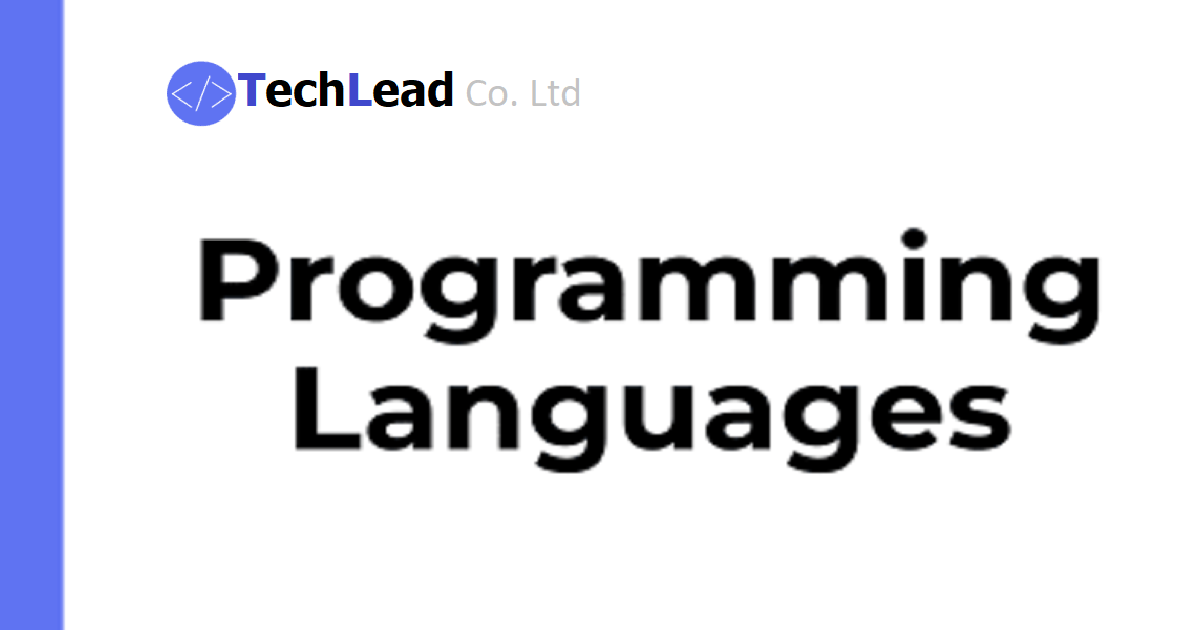
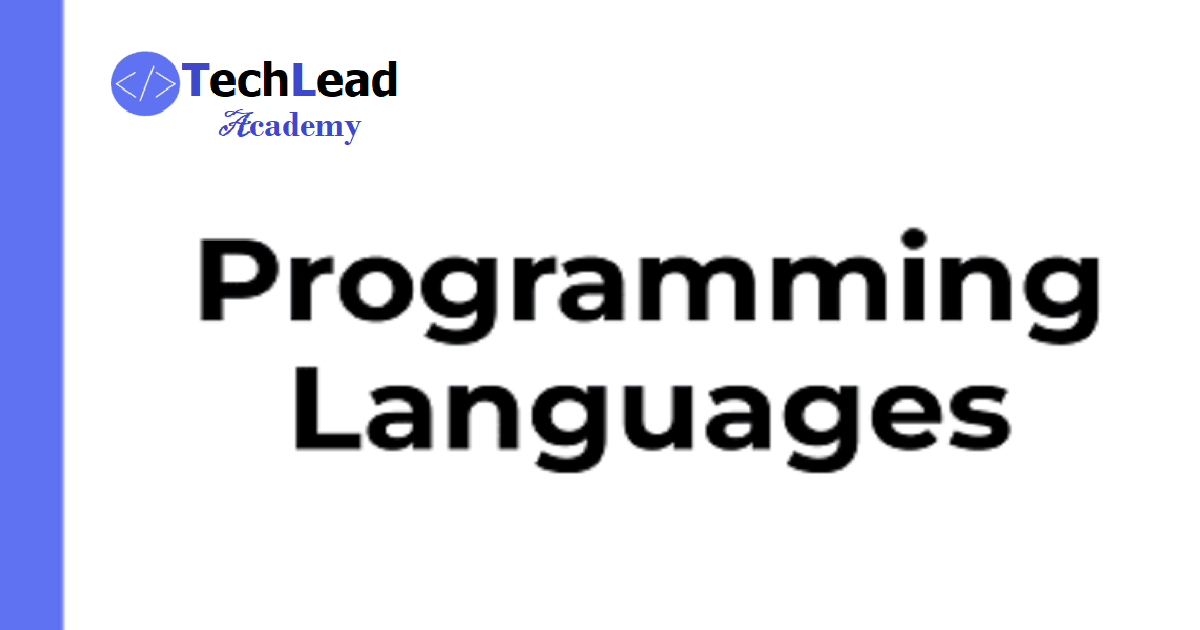
updates and adding the JS file

Changed region(s): [[0.0925, 0.0603, 0.4933, 0.2413]]

diff --git a/protocol/protocols.html b/protocol/protocols.html
@@ -22,6 +22,7 @@
 integrity="sha384-rbsA2VBKQhggwzxH7pPCaAqO46MgnOM80zW1RWuH61DGLwZJEdK2Kadq2F9CUG65" crossorigin="anonymous">
 <!-- Bootstrap icon cdn  -->
 <link rel="stylesheet" href="https://cdn.jsdelivr.net/npm/bootstrap-icons@1.10.2/font/bootstrap-icons.css">
+<meta name="color-scheme" content="light dark">
 
     <link rel="icon" href="../assets/imgs/company_logo.jpeg" />
     
@@ -36,16 +37,20 @@ integrity="sha384-rbsA2VBKQhggwzxH7pPCaAqO46MgnOM80zW1RWuH61DGLwZJEdK2Kadq2F9CUG
       href="style.css"
       data-n-g=""
     />
+
+    <style>
+  
+    </style>
   </head>
-  <body>
+  <body class="dark-mode">
      <!-- <header> -->
       <nav class="navbar navbar-dark bg-dark fixed-top">
         <div class="container-fluid">
           <div class="flex justify-start lg:w-0 lg:flex-1">
             <a href="../home.html"><img class="h-8 w-auto sm:h-10"
-                src="../assets/imgs/company_logo.jpeg" width="150" height="40" alt="TechLead"/></a><span class="link-primary h3"> TechLead Academy</span>
+                src="../assets/company/company-logo.jpeg" width="150" height="40" alt="TechLead"/></a><span class="link-primary h3 sr-only"> TechLead Academy</span>
           </div> 
-
+          <button type="button" class="btn btn-info active align-content-md-start text-light" onclick="myFunction()"><i class="bi bi-toggle-on"></i> dark mode</button>
           <button class="navbar-toggler text-primary-active" type="button" data-bs-toggle="offcanvas"
             data-bs-target="#offcanvasDarkNavbar" aria-controls="offcanvasDarkNavbar">
             <span class="navbar-toggler-icon"></span>
@@ -65,7 +70,7 @@ integrity="sha384-rbsA2VBKQhggwzxH7pPCaAqO46MgnOM80zW1RWuH61DGLwZJEdK2Kadq2F9CUG
                 </li>
                 <li class="nav-item h4">
                   <a class="nav-link " href="#"><i class="bi bi-file-earmark-person-fill "></i> About</a>
-                </li>
+                            </li>
                 <li class="nav-item h4">
                   <a class="nav-link " href="#"><i class="bi bi-book"></i> Books</a>
                 </li>
@@ -75,19 +80,22 @@ integrity="sha384-rbsA2VBKQhggwzxH7pPCaAqO46MgnOM80zW1RWuH61DGLwZJEdK2Kadq2F9CUG
                     Courses
                   </a>
                   <ul class="dropdown-menu dropdown-menu-dark">
-                    <li><a class="dropdown-item  text-info" title="HyperText Markup language" href="#">HTML <i class="fa fa-angle-double-right" aria-hidden="true"></i>
+                    <li><a class="dropdown-item  text-info" title="HyperText Markup language" href="#">HTML <i class="bi bi-filetype-html" aria-hidden="true"></i>
                     </a></li>
                     <hr class="dropdown-divider">
-                    <li><a class="dropdown-item text-info" href="#">CSS    <i class="fa fa-angle-double-right" aria-hidden="true"></i></a></li>
+                    <li><a class="dropdown-item text-info" href="#">CSS    <i class="bi bi-filetype-css" aria-hidden="true"></i></a></li>
                     <li>
                       <hr class="dropdown-divider">
                     </li>
-                    <li><a class="dropdown-item text-info" href="#">Python    <i class="fa fa-angle-double-right" aria-hidden="true"></i></a></li><hr class="dropdown-divider">
-                    <li><a class="dropdown-item text-info" href="#">JavaScript     <i class="fa fa-angle-double-right" aria-hidden="true"></i></a></li><hr class="dropdown-divider">
-                    <li><a class="dropdown-item text-info" href="#">Django     <i class="fa fa-angle-double-right" aria-hidden="true"></i></a></li><hr class="dropdown-divider">
-                    <li><a class="dropdown-item text-info" href="#">Computer Networking   <i class="fa fa-angle-double-right" aria-hidden="true"></i></a></li><hr class="dropdown-divider">
-                    <li><a class="dropdown-item text-info" href="#">Linux Commands    <i class="fa fa-angle-double-right" aria-hidden="true"></i></a></li><hr class="dropdown-divider">
-                    <li><a class="dropdown-item text-info" href="#">Windows commands     <i class="fa fa-angle-double-right" aria-hidden="true"></i></a></li>
+                    <li><a class="dropdown-item text-info" href="#">Python    <i class="bi bi-filetype-py" aria-hidden="true"></i></a></li><hr class="dropdown-divider">
+                    <li><a class="dropdown-item text-info" href="#">JavaScript     <i class="bi bi-filetype-js" aria-hidden="true"></i></a></li><hr class="dropdown-divider">
+                    <li><a class="dropdown-item text-info" href="#">Django     <i class="bi bi-filetype-py" aria-hidden="true"></i></a></li><hr class="dropdown-divider">
+                    <li><a class="dropdown-item text-info" href="#">Computer Networking   <i class="bi bi-bar-chart-steps" aria-hidden="true"></i></a></li><hr class="dropdown-divider">
+                    <li><a class="dropdown-item text-info" href="#">Linux Commands    <i class="bi bi-terminal-dash" aria-hidden="true"></i></a></li>
+                    <hr class="dropdown-divider">
+                    <li><a class="dropdown-item text-info" href="#">Windows commands     <i class="bi bi-terminal" aria-hidden="true"></i></a></li>
+                    <hr class="dropdown-divider">
+                    <li><a class="dropdown-item text-info" href="#">SQL Tutorials    <i class="bi bi-database" aria-hidden="true"></i></a></li>
                   </ul>
                 </li>
               </ul>
@@ -99,7 +107,6 @@ integrity="sha384-rbsA2VBKQhggwzxH7pPCaAqO46MgnOM80zW1RWuH61DGLwZJEdK2Kadq2F9CUG
           </div>
         </div>
       </nav>
-
 
       <!-- main -->
         <main>
@@ -490,5 +497,6 @@ integrity="sha384-rbsA2VBKQhggwzxH7pPCaAqO46MgnOM80zW1RWuH61DGLwZJEdK2Kadq2F9CUG
   integrity="sha384-kenU1KFdBIe4zVF0s0G1M5b4hcpxyD9F7jL+jjXkk+Q2h455rYXK/7HAuoJl+0I4"
   crossorigin="anonymous"></script>
   
+  <script src="../assets/script.js"></script>
   </body>
 </html>

diff --git a/home.html b/home.html
@@ -1,5 +1,5 @@
 <!DOCTYPE html>
-<html lang="en">
+<html lang="en" >
 
 <head>
   <meta charset="utf-8" />
@@ -7,39 +7,39 @@
   <title>TeadLead</title>
   <meta name="description"
     content="About TechLead. Your one-stop-site to build-out a technical foundation you can be proud of." />
-  <meta property="og:title" content="TeadLead" />
+  <meta property="og:title" content="TechLead, TechLead Academy, TechLead Co. Limited" />
   <meta property="og:description"
     content="This website is for programmers students, and self-starters interested in HTML, CSS, Django, JS, Python and system administrations (Linux and windows), hackers, engineers, scientist." />
-  <link href="https://www.TeadLead.com/" rel="canonical" />
+  <link href="https://www.TechLead.com/" rel="canonical" />
   <meta property="og:image"
-    content="https://res.cloudinary.com/slp-careers/image/upload/f_auto,q_auto,w_1200,h_630/v1667254084/TeadLead-large" />
+    content="./company_logo.jpeg" />
   <!-- Bootstrap CSS only -->
   <link href="https://cdn.jsdelivr.net/npm/bootstrap@5.2.3/dist/css/bootstrap.min.css" rel="stylesheet"
     integrity="sha384-rbsA2VBKQhggwzxH7pPCaAqO46MgnOM80zW1RWuH61DGLwZJEdK2Kadq2F9CUG65" crossorigin="anonymous">
   <!-- Fontawesome cdn  -->
   <link rel="stylesheet" href="https://cdn.jsdelivr.net/npm/bootstrap-icons@1.10.2/font/bootstrap-icons.css">
-
+  <meta name="color-scheme" content="light dark">
   <link rel="icon" href="../assets/company/company-logo.jpeg" />
   <meta name="next-head-count" content="9" />
   <link rel="preload" href="protocol/style.css" as="style" />
   <link rel="stylesheet" href="protocol/style.css" data-n-g="" />
 
   <style>
-  nav a img{
-    border-radius: 15px;
-  }
+
+ 
+
   </style>
 </head>
 
-<body>
+<body class="dark-mode" style="background-color:#ffffff;">
       <!-- <header> -->
         <nav class="navbar navbar-dark bg-dark fixed-top">
           <div class="container-fluid">
             <div class="flex justify-start lg:w-0 lg:flex-1">
               <a href="home.html"><img class="h-8 w-auto sm:h-10"
-                  src="../assets/company/company-logo.jpeg" width="150" height="40" alt="TechLead"/></a><span class="link-primary h3"> TechLead Academy</span>
+                  src="../assets/company/company-logo.jpeg" width="150" height="40" alt="TechLead"/></a><span class="link-primary h3 sr-only"> TechLead Academy</span>
             </div> 
-  
+            <button type="button" class="btn btn-info active align-content-md-start text-light" onclick="myFunction()"><i class="bi bi-toggle-on"></i> dark mode</button>
             <button class="navbar-toggler text-primary-active" type="button" data-bs-toggle="offcanvas"
               data-bs-target="#offcanvasDarkNavbar" aria-controls="offcanvasDarkNavbar">
               <span class="navbar-toggler-icon"></span>
@@ -304,6 +304,8 @@
   <script src="https://cdn.jsdelivr.net/npm/bootstrap@5.2.3/dist/js/bootstrap.bundle.min.js"
     integrity="sha384-kenU1KFdBIe4zVF0s0G1M5b4hcpxyD9F7jL+jjXkk+Q2h455rYXK/7HAuoJl+0I4"
     crossorigin="anonymous"></script>
+
+    <script src="./assets/script.js"></script>
 </body>
 
 </html>

diff --git a/protocol/style.css b/protocol/style.css
@@ -1,5 +1,6 @@
 /* custom css */
 
+
 .carousel-inner,
 img {
   max-height: 500px;
@@ -9,13 +10,33 @@ a .flex img:hover {
   opacity: 0.5;
 }
 
+nav a img{
+  border-radius: 15px;
+}
+
+* {
+background-color: initial!important;
+}
+body {
+padding: 25px;
+background-color: white;
+color: black;
+font-size: 25px;
+}
+
+.dark-mode *{
+background-color: black!important;
+color: white;
+}
+
+/* 
 nav {
   background: linear-gradient(132deg, rgb(65, 80, 95) 0%, rgb(36, 37, 38) 100%);
 }
 
 footer {
   background: linear-gradient(132deg, rgb(65, 80, 95) 0%, rgb(36, 37, 38) 100%);
-}
+} */
 
 /* end */
 

diff --git a/assets/script.js b/assets/script.js
@@ -1,0 +1,5 @@
+// Dark and light mode toggle
+function myFunction() {
+    var element = document.body;
+    element.classList.toggle("dark-mode");
+  }
